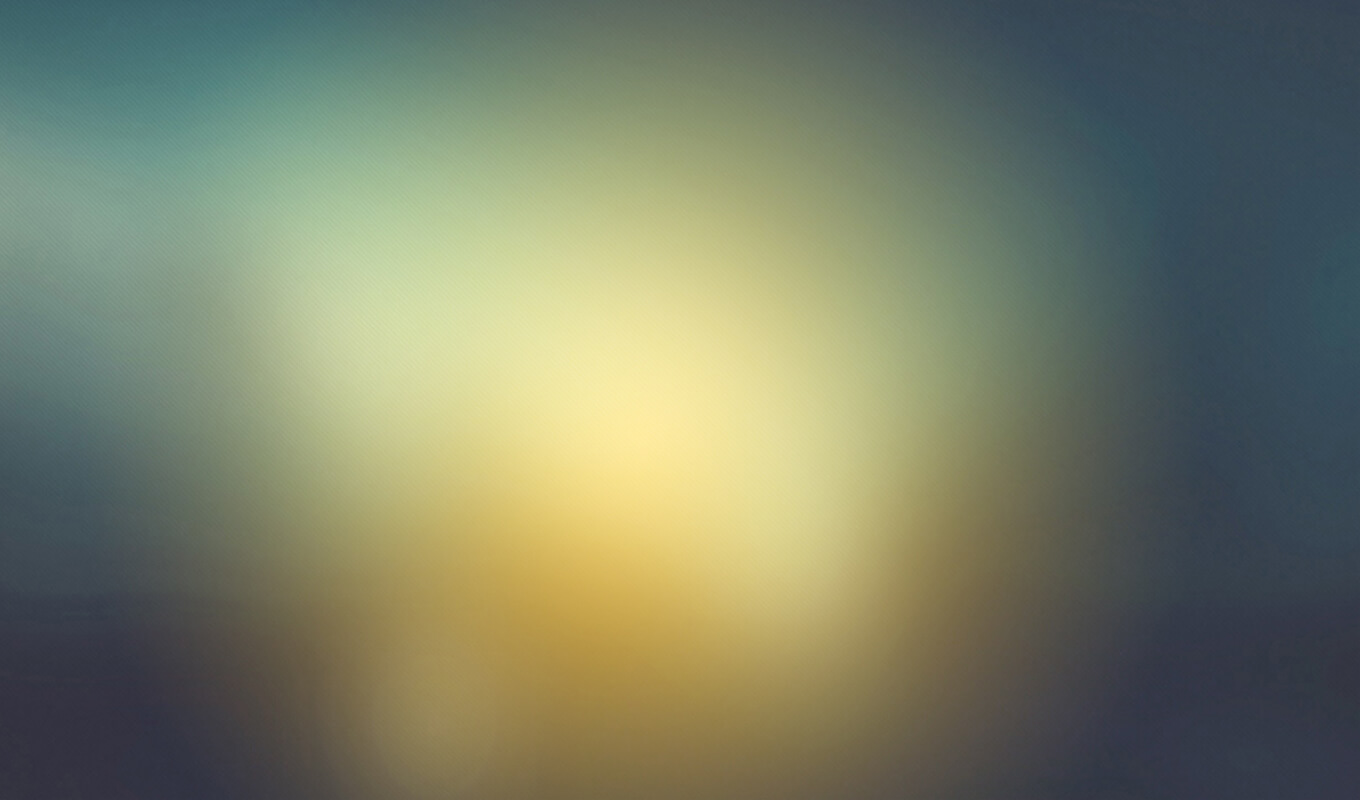
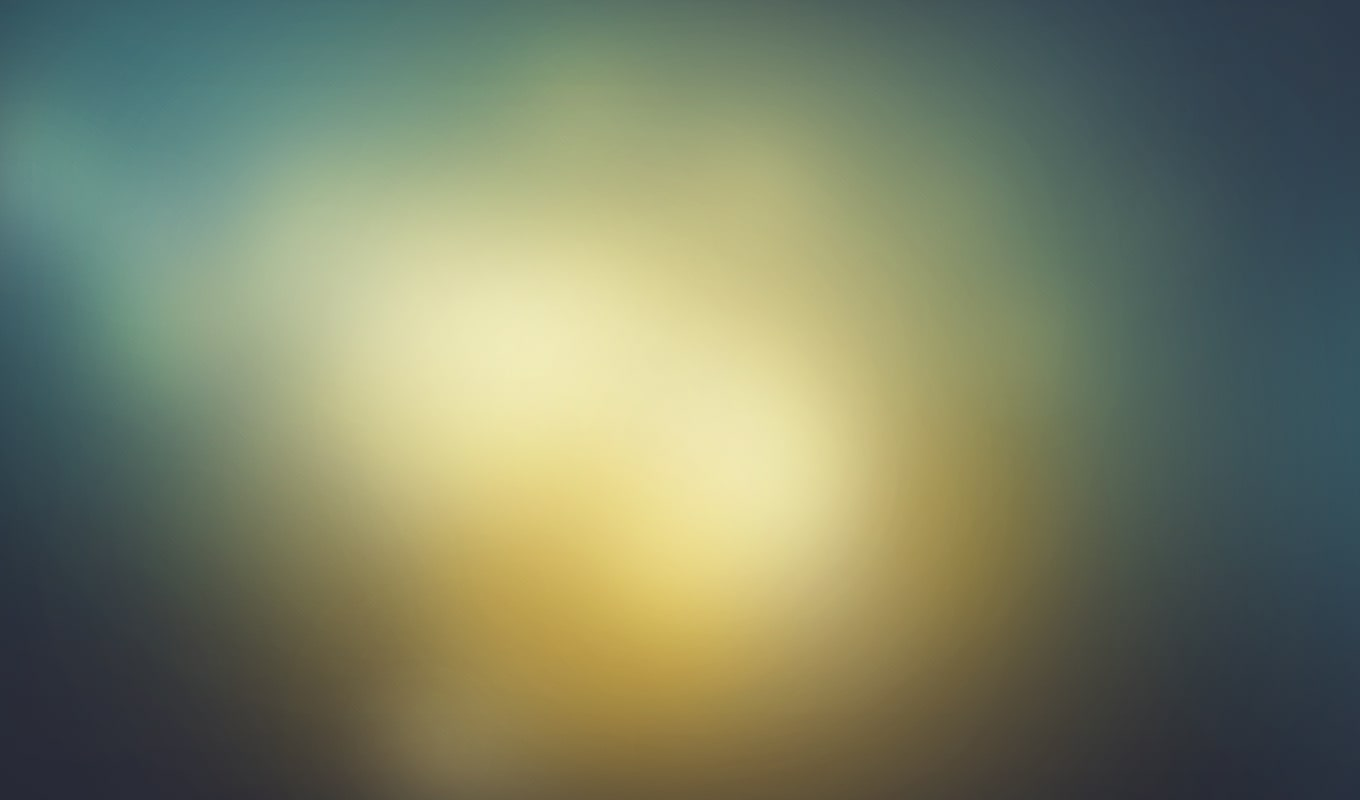
fixes

Changed region(s): [[0.0, 0.1562, 0.0926, 0.5625]]

diff --git a/src/scss/pages/_about.scss b/src/scss/pages/_about.scss
@@ -201,26 +201,15 @@
 
 			&__icon {
 				position: absolute;
-				top: 147px;
+				left: 0;
+				right: 0;
+				top: 0;
+				bottom: 0;
 				display: flex;
 				align-items: center;
 				justify-content: center;
-				mask: url("../images/sprites/svg/octagon-mask.svg") center center;
 				overflow: hidden;
-				width: 76px;
-				height: 80px;
 				transition: opacity 0.3s;
-
-				&::before {
-					content: "";
-					position: absolute;
-					left: 0;
-					top: 0;
-					z-index: 1;
-					width: 76px;
-					height: 80px;
-					background: url("../images/sprites/svg/octagon.svg") center no-repeat;
-				}
 
 				img {
 					z-index: initial;

diff --git a/src/scss/components/_wrapper.scss b/src/scss/components/_wrapper.scss
@@ -14,7 +14,7 @@
 		top: 0;
 		bottom: 0;
 		z-index: -1;
-		background: url("../images/bg.jpg") no-repeat center;
+		background: url("../images/bg.png") no-repeat center;
 		background-size: cover;
 
 		@include mobile {

diff --git a/src/scss/pages/_home.scss b/src/scss/pages/_home.scss
@@ -187,10 +187,6 @@
 				text-align: center;
 			}
 		}
-
-		@include retina {
-			background-image: url("../images/pages/main/bg@2x.jpg");
-		}
 	}
 
 	&__all-news {
